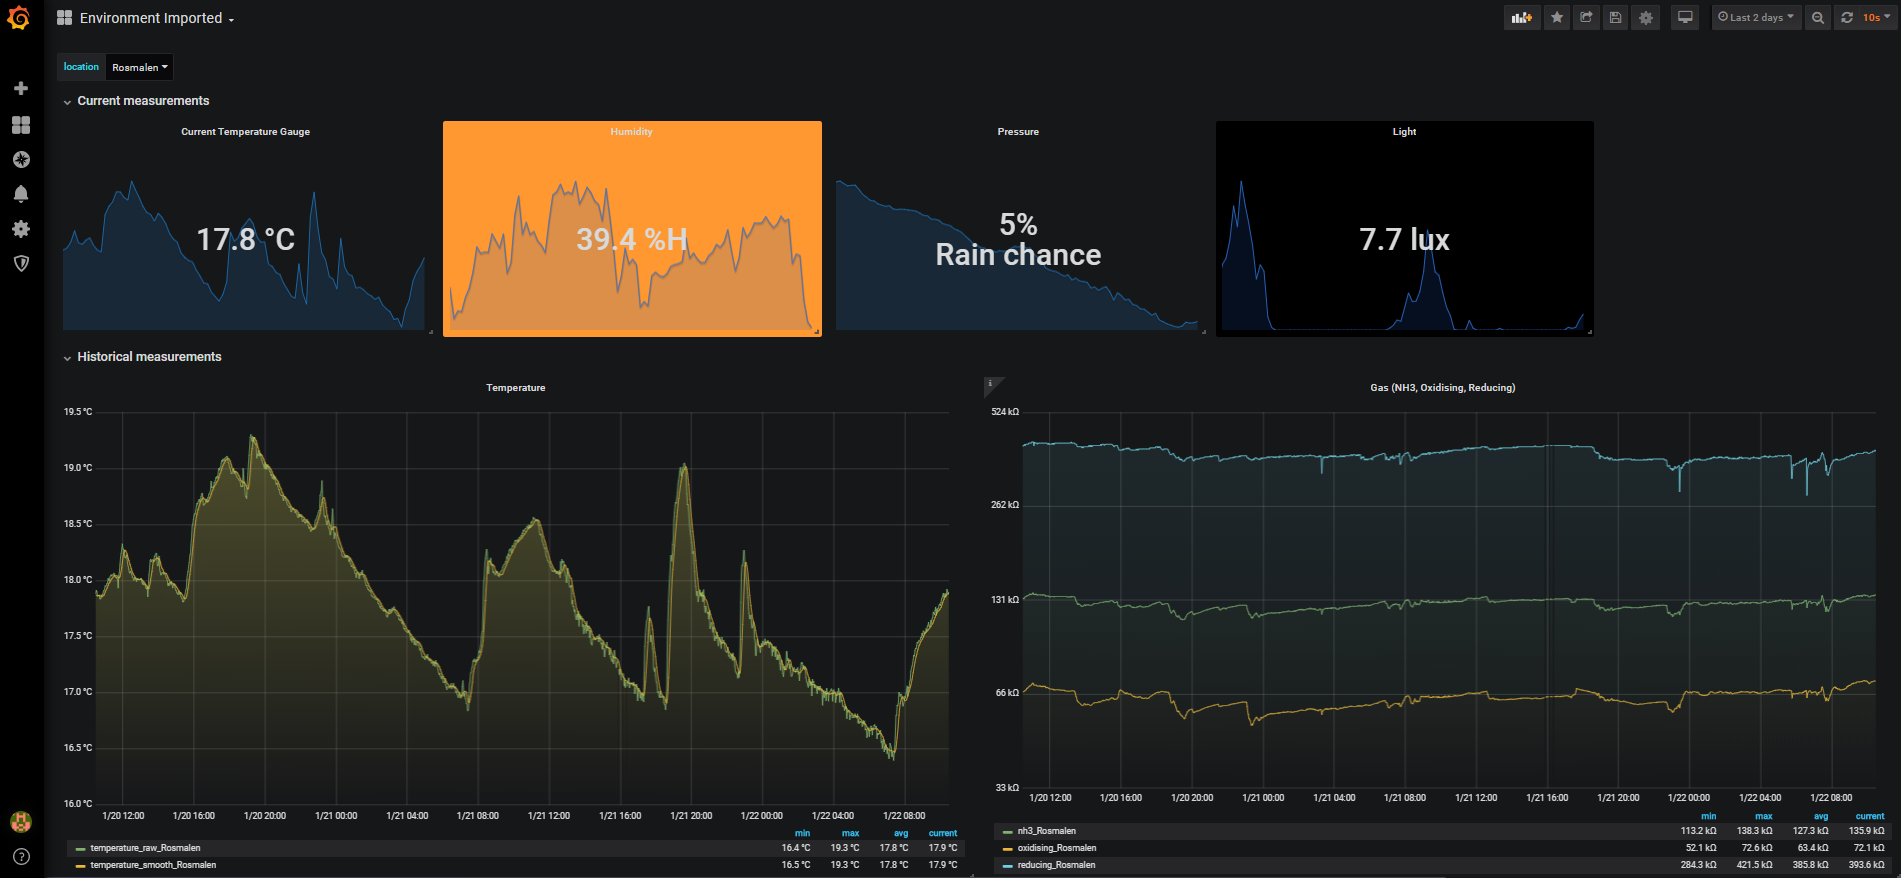
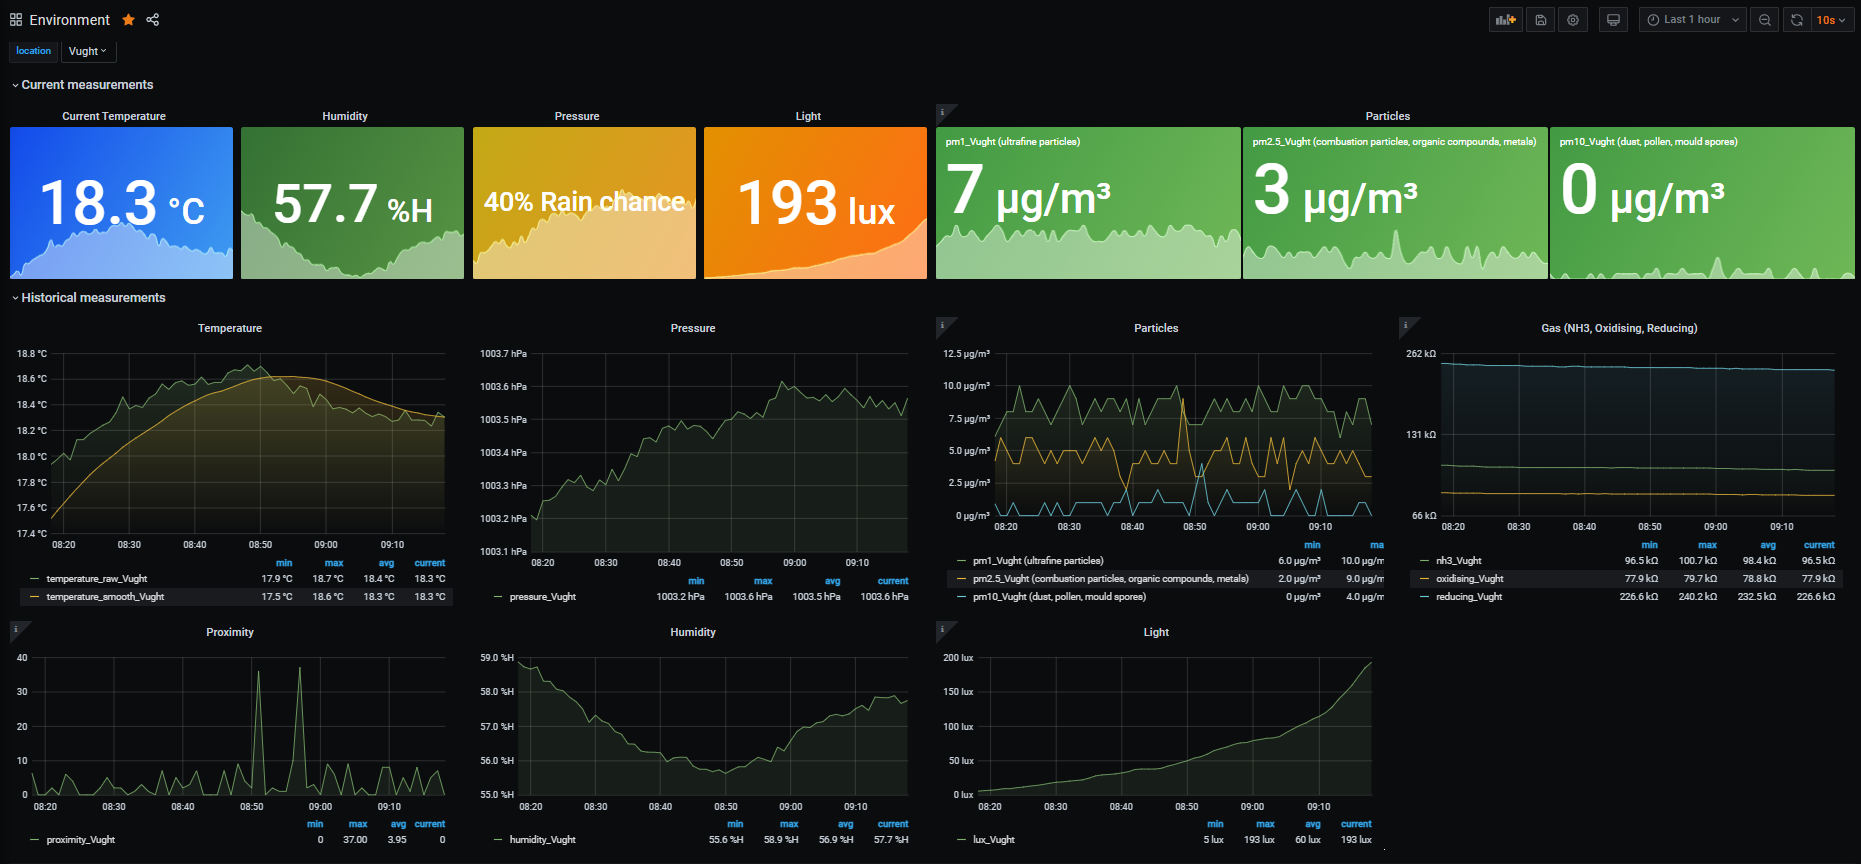
Updated Grafana dashboard and screenshots

diff --git a/README.md b/README.md
@@ -237,9 +237,6 @@ I published the dashboard on [grafana.com](https://grafana.com/grafana/dashboard
   <a href="images/grafana_dashboard_2.png">
     <img src="images/grafana_dashboard_2.png" alt="Grafana Dashboard 2" width="480" height="280">
   </a>
-  <a href="images/grafana_dashboard_3.png">
-    <img src="images/grafana_dashboard_3.png" alt="Grafana Dashboard 3" width="480" height="280">
-  </a>
 </p>
 
 ### Docker
